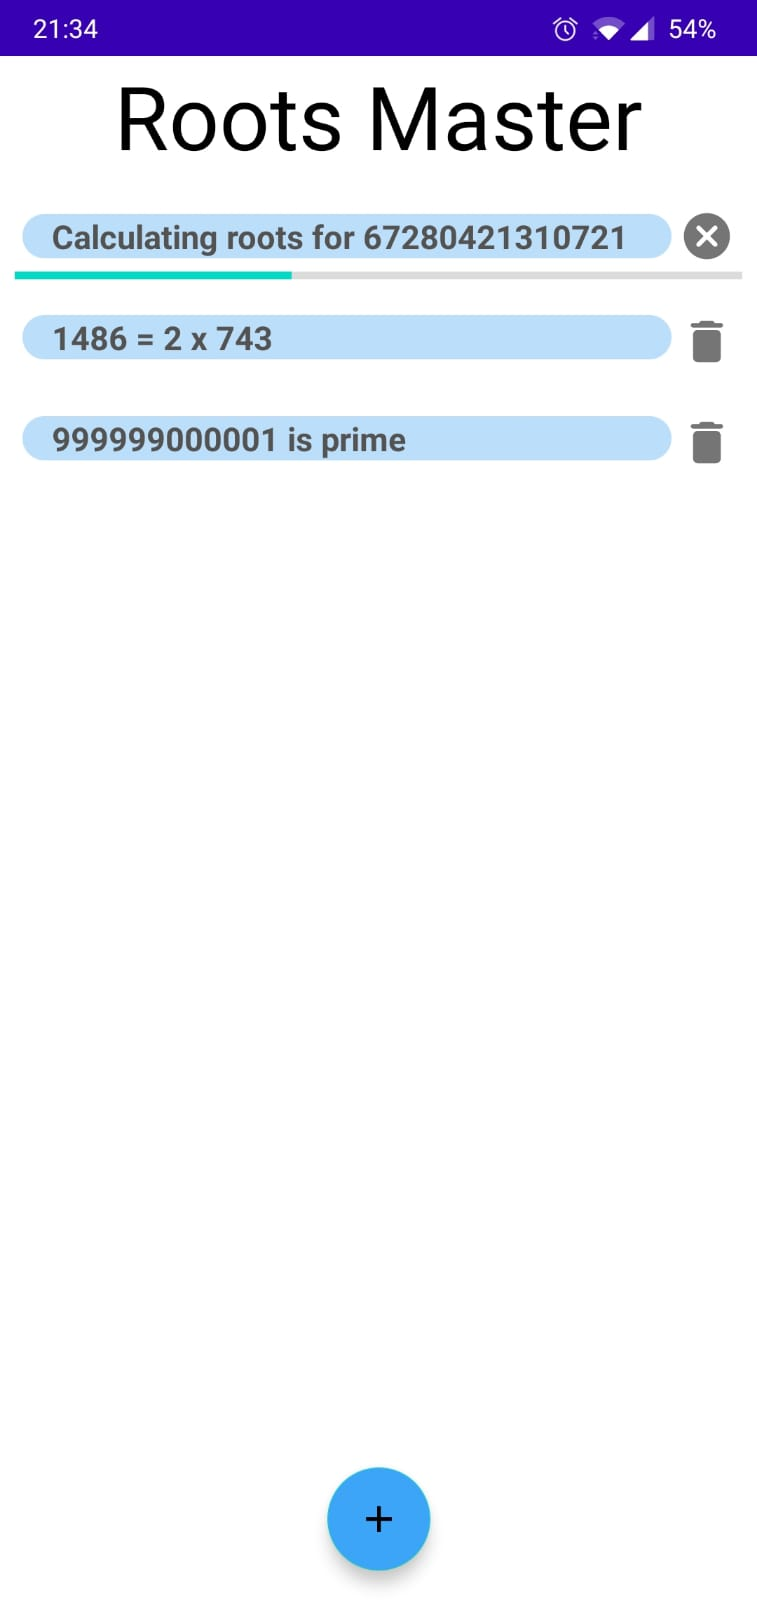
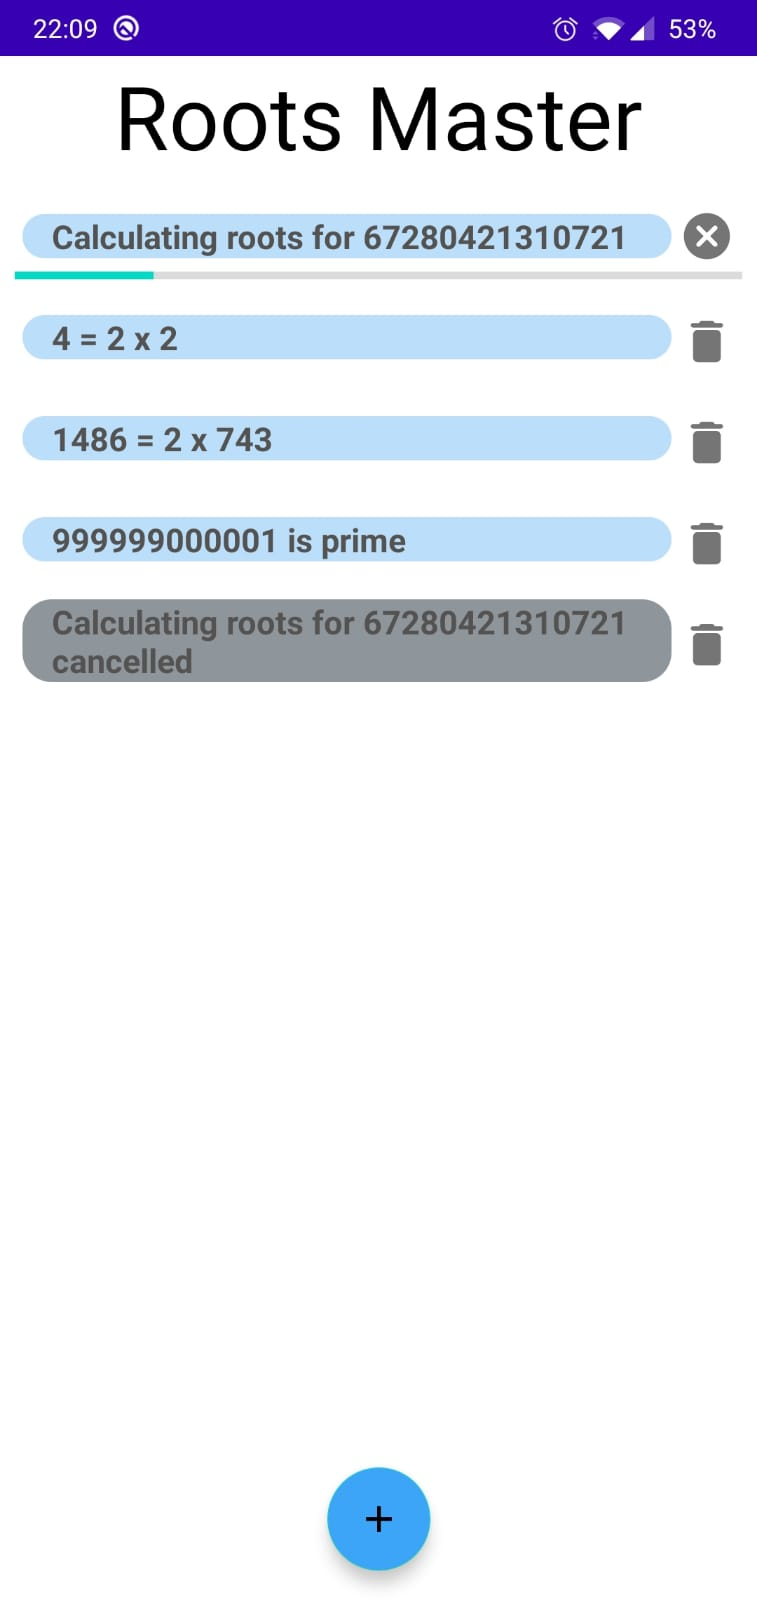
gray background to failed and canceled calculations, and show them in the bottom of the list

diff --git a/app/src/main/java/idosa/huji/postpc/roots_master/RootCalcListAdapter.java b/app/src/main/java/idosa/huji/postpc/roots_master/RootCalcListAdapter.java
@@ -68,6 +68,7 @@ public class RootCalcListAdapter extends RecyclerView.Adapter<RootCalcViewHolder
         holder.deleteRootBtn.setVisibility(View.GONE);
 
         holder.descriptionTextView.setText(String.format("Calculating roots for %d", item.getNumber()));
+        holder.descriptionTextView.setBackgroundResource(R.drawable.light_blue_rect_with_rounded_corners);
 
         holder.calcProgressBar.setProgress(item.getCalculationProgress());
 
@@ -87,6 +88,7 @@ public class RootCalcListAdapter extends RecyclerView.Adapter<RootCalcViewHolder
         } else {
             holder.descriptionTextView.setText(String.format("%d = %d x %d", item.getNumber(), item.getRoot1(), item.getRoot2()));
         }
+        holder.descriptionTextView.setBackgroundResource(R.drawable.light_blue_rect_with_rounded_corners);
 
         holder.deleteRootBtn.setOnClickListener(v -> {
             if (onDeleteRootCallback == null) return;
@@ -100,6 +102,7 @@ public class RootCalcListAdapter extends RecyclerView.Adapter<RootCalcViewHolder
         holder.calcProgressBar.setVisibility(View.GONE);
 
         holder.descriptionTextView.setText(String.format("Calculating roots for %d cancelled", item.getNumber()));
+        holder.descriptionTextView.setBackgroundResource(R.drawable.light_gray_rect_with_rounded_corners);
 
         holder.deleteRootBtn.setOnClickListener(v -> {
             if (onDeleteRootCallback == null) return;
@@ -113,6 +116,7 @@ public class RootCalcListAdapter extends RecyclerView.Adapter<RootCalcViewHolder
         holder.calcProgressBar.setVisibility(View.GONE);
 
         holder.descriptionTextView.setText(String.format("Calculating roots for %d failed", item.getNumber()));
+        holder.descriptionTextView.setBackgroundResource(R.drawable.light_gray_rect_with_rounded_corners);
 
         holder.deleteRootBtn.setOnClickListener(v -> {
             if (onDeleteRootCallback == null) return;

diff --git a/app/src/main/java/idosa/huji/postpc/roots_master/RootCalcItem.java b/app/src/main/java/idosa/huji/postpc/roots_master/RootCalcItem.java
@@ -109,15 +109,26 @@ public class RootCalcItem implements Comparable<RootCalcItem> {
      */
     @Override
     public int compareTo(RootCalcItem o) {
-        if (calculationProgress == MAX_PROGRESS) {
-            if (o.calculationProgress < MAX_PROGRESS) {
+        // failed/canceled in the end
+        if ((this.status != CalculationStatus.CANCELED && this.status != CalculationStatus.FAILED) &&
+                (o.status == CalculationStatus.CANCELED || o.status == CalculationStatus.FAILED)) {
+            return -1;
+        }
+        if ((this.status == CalculationStatus.CANCELED || this.status == CalculationStatus.FAILED) &&
+                (o.status != CalculationStatus.CANCELED && o.status != CalculationStatus.FAILED)) {
+            return 1;
+        }
+
+        if (this.status == CalculationStatus.DONE) {
+            if (o.status != CalculationStatus.DONE) {
                 return 1;
             }
             return number.compareTo(o.number);
         }
-        if (o.calculationProgress == MAX_PROGRESS) {
+        if (o.status == CalculationStatus.DONE) {
             return -1;
         }
+
         return number.compareTo(o.number);
     }
 }
